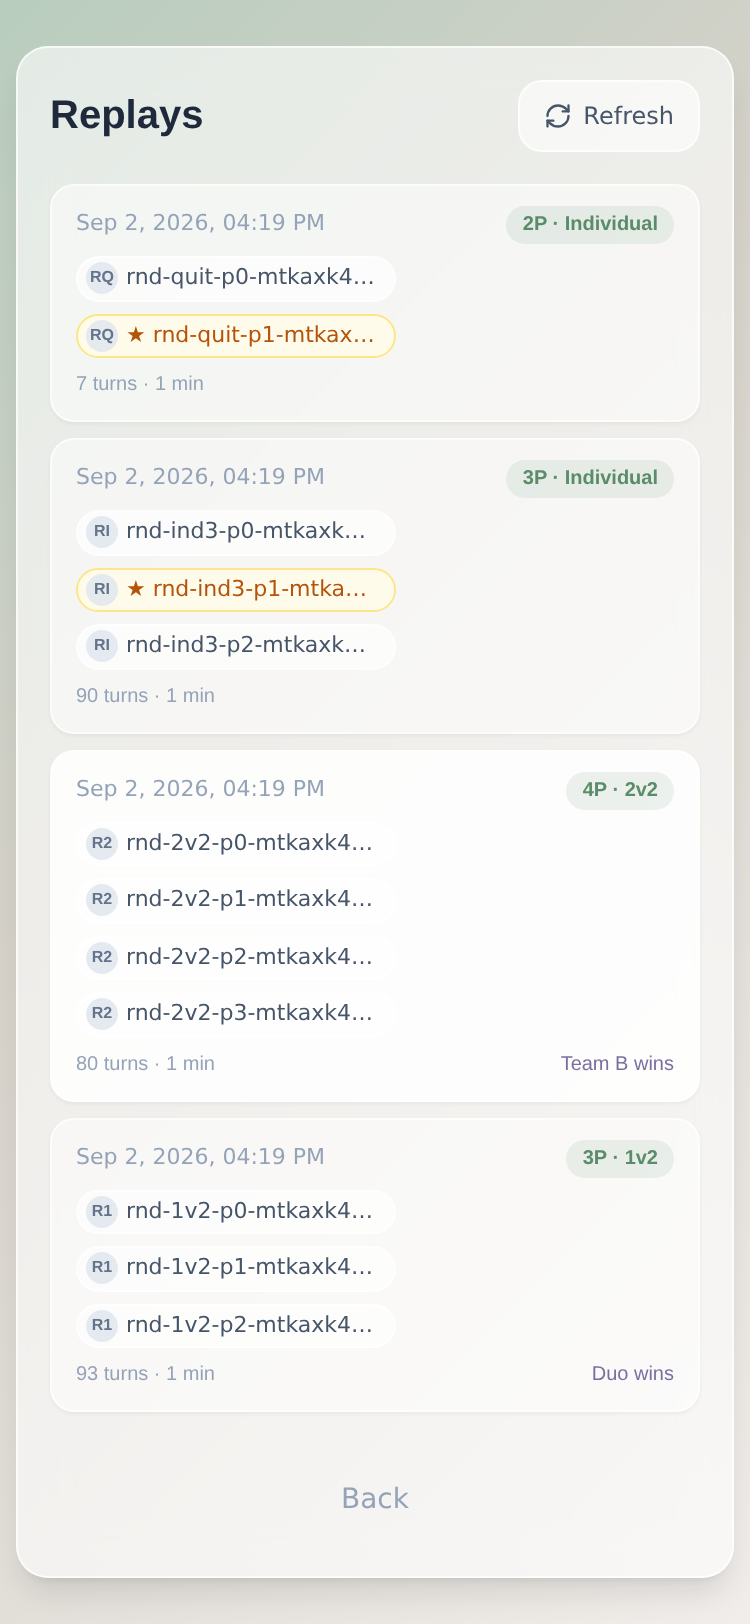
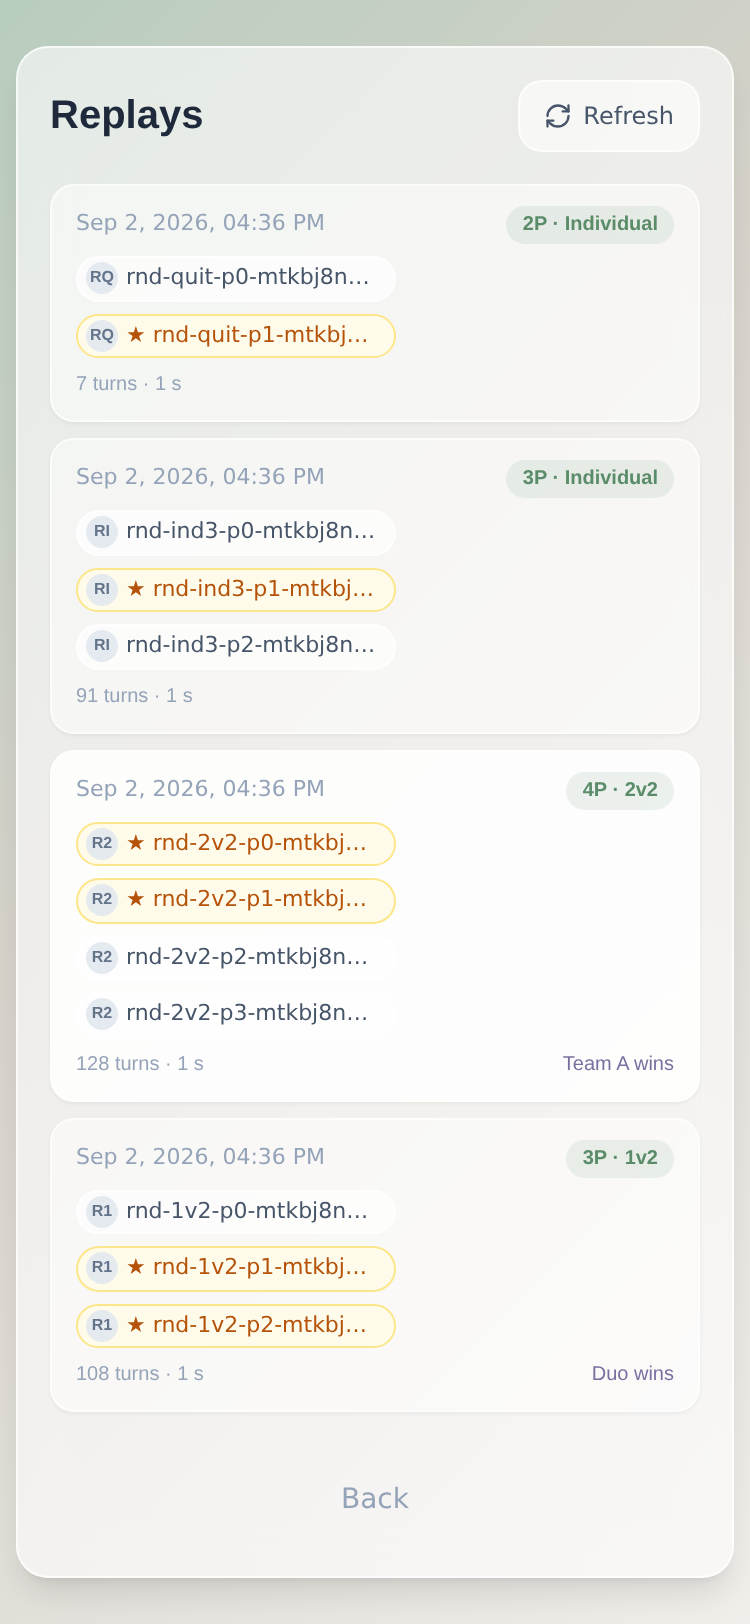
replay: team winners in index, resigned-seat rating in stored result, duration text, vite cleanup
Claude-Session: https://claude.ai/code/session_01KxVch65mcLL5sdVjKVQqqZ

diff --git a/server/test/replayRecorder.test.js b/server/test/replayRecorder.test.js
@@ -326,6 +326,36 @@ async function run() {
     assertEqual(json.result.rating, [0, 5, 5]);
   });
 
+  await test('INDIVIDUAL: a resigned seat is stored with a rating delta of 0', () => {
+    // index.js applies ratings with excludeResigned when an INDIVIDUAL game ends on a
+    // resignation/timeout, so seat 2's account is never credited even though the raw
+    // ranking hands it +3. The stored replay must say the same.
+    const state = syntheticState([
+      player('a', 15, 11), player('b', 4, 3), player('c', 9, 7),
+    ], { resignedPlayers: [2] });
+    const room = makeSyntheticRoom(state, [5, 1, 3]);
+    recorder.begin(room);
+    const json = recorder.finish(room);
+    assertEqual(json.result.rating, [5, 1, 0], 'the resigned seat earns nothing');
+    assertEqual(json.result.resigned, [2]);
+    assertEqual(json.result.winners, [0], 'resigned seats are still excluded from the winners');
+  });
+
+  await test('team modes keep the rating the server credited for resigned seats', () => {
+    const state = syntheticState([
+      player('a', 12, 8, 0), player('b', 3, 2, 1), player('c', 9, 6, 0), player('d', 5, 4, 1),
+    ], {
+      gameMode: 'TEAM',
+      teamLayout: 'OPPOSITE',
+      resignedPlayers: [1],
+      gameResult: { reason: 'FORFEIT', winningTeamIds: [0] },
+    });
+    const room = makeSyntheticRoom(state, [5, 0, 5, 0]);
+    recorder.begin(room);
+    const json = recorder.finish(room);
+    assertEqual(json.result.rating, [5, 0, 5, 0], 'team ratings are per side, not per seat');
+  });
+
   await test('a missing ratingChanges falls back to zeroes instead of throwing', () => {
     const state = syntheticState([player('a', 1, 1), player('b', 2, 1)]);
     const room = makeSyntheticRoom(state, null);

diff --git a/server/test/replayStore.test.js b/server/test/replayStore.test.js
@@ -82,9 +82,11 @@ async function run() {
       t: json.t,
       e: json.e,
       mode: 'INDIVIDUAL',
+      layout: null,
       n: 2,
       players: ['alice', 'bob'],
       ai: [false, false],
+      teams: [null, null],
       winners: [0],
       winningTeamIds: null,
       turns: json.actions.length,
@@ -104,6 +106,19 @@ async function run() {
     const list = await store.listGames({ limit: 200 });
     assertEqual(list.total, 100);
     assertEqual(list.games[0].id, 'game-1000000000104-r104', 'newest first');
+  });
+
+  await test('a team entry carries per-seat team ids and the layout', async () => {
+    useNoGithub();
+    store.reset();
+    const team = fixtures.clone(fixtures.teamGame);
+    store.add(team);
+    const list = await store.listGames({});
+    const entry = list.games[0];
+    assertEqual(entry.teams, [0, 1, 0, 1], 'seat → teamId, so the browser can star a winning side');
+    assertEqual(entry.layout, 'OPPOSITE');
+    assertEqual(entry.winners, null, 'team modes have no individual winners');
+    assertEqual(entry.winningTeamIds, team.result.winningTeamIds);
   });
 
   await test('paginates with limit and offset', async () => {

diff --git a/src/replay/ReplayBrowser.tsx b/src/replay/ReplayBrowser.tsx
@@ -138,12 +138,17 @@ function teamOutcome(game: ReplayIndexEntry): string | null {
 /** Seats to star: individual winners, or every member of a winning team. */
 function winnerSeats(game: ReplayIndexEntry): Set<number> {
   const seats = new Set<number>();
-  if (game.winningTeamIds?.length) {
-    // The index entry has no per-seat team ids; 1v2 seats solo at 0, 2v2 alternates or pairs.
-    // Fall back to the explicit winners list when the server provides one.
-    if (game.winners?.length) for (const seat of game.winners) seats.add(seat);
+  if (game.winners?.length) {
+    for (const seat of game.winners) seats.add(seat);
     return seats;
   }
-  for (const seat of game.winners ?? []) seats.add(seat);
+  // Team modes leave `winners` null, so map the winning side onto seats
+  // through the per-seat team ids the index entry carries.
+  if (game.winningTeamIds?.length && game.teams) {
+    const winningTeams = new Set<number>(game.winningTeamIds);
+    game.teams.forEach((team, seat) => {
+      if (team != null && winningTeams.has(team)) seats.add(seat);
+    });
+  }
   return seats;
 }

diff --git a/server/replayRecorder.js b/server/replayRecorder.js
@@ -189,6 +189,9 @@ function buildResult(room) {
 
   // An INDIVIDUAL game that ran out of active players ended by forfeit.
   const forfeited = resigned.length >= state.numPlayers - 1 && resigned.length > 0;
+  // index.js credits accounts with `excludeResigned` when an INDIVIDUAL game ends
+  // on a resignation/timeout, so a seat that resigned never earns a delta. Store
+  // what the server actually credited instead of the raw ranking.
   return {
     scores,
     cards,
@@ -196,7 +199,7 @@ function buildResult(room) {
     winners: individualWinners(state),
     winningTeamIds: null,
     reason: forfeited ? 'FORFEIT' : 'SCORE',
-    rating: ratingChanges,
+    rating: ratingChanges.map((delta, seat) => (resigned.includes(seat) ? 0 : delta)),
   };
 }
 

diff --git a/server/replayStore.js b/server/replayStore.js
@@ -103,9 +103,13 @@ function indexEntryFor(json) {
     t: json.t ?? null,
     e: json.e ?? null,
     mode: json.mode,
+    layout: json.layout ?? null,
     n: json.n ?? (json.players || []).length,
     players: (json.players || []).map(player => player.u),
     ai: (json.players || []).map(player => player.ai === true),
+    // Per-seat team ids (null in INDIVIDUAL) so the browser can star a winning
+    // side without loading the whole replay — team modes leave `winners` null.
+    teams: (json.players || []).map(player => (player.team ?? null)),
     winners: json.result?.winners ?? null,
     winningTeamIds: json.result?.winningTeamIds ?? null,
     turns: Array.isArray(json.actions) ? json.actions.length : 0,

diff --git a/src/replay/replayText.ts b/src/replay/replayText.ts
@@ -101,7 +101,10 @@ export function formatReplayDate(ms: number): string {
 
 export function formatDuration(startMs: number, endMs: number): string | null {
   if (!startMs || !endMs || endMs <= startMs) return null;
-  const totalMinutes = Math.round((endMs - startMs) / 60000);
+  // Short games (bot runs, quick resignations) are seconds, not "1 min".
+  const totalSeconds = Math.round((endMs - startMs) / 1000);
+  if (totalSeconds < 60) return `${Math.max(1, totalSeconds)} s`;
+  const totalMinutes = Math.round(totalSeconds / 60);
   if (totalMinutes < 60) return `${Math.max(1, totalMinutes)} min`;
   const hours = Math.floor(totalMinutes / 60);
   return `${hours} h ${totalMinutes % 60} min`;

diff --git a/src/types.ts b/src/types.ts
@@ -150,9 +150,11 @@ export interface ReplayIndexEntry {
   t: number;          // game start (ms)
   e: number;          // game end (ms)
   mode: GameMode;
+  layout?: TeamLayout | null;      // TEAM only, null otherwise
   n: number;
   players: string[];  // usernames, seat order
   ai?: boolean[];
+  teams?: (number | null)[];       // per-seat teamId, null in INDIVIDUAL
   winners: number[] | null;
   winningTeamIds: TeamId[] | null;
   turns: number;

diff --git a/docs/REPLAY_FORMAT.md b/docs/REPLAY_FORMAT.md
@@ -49,10 +49,14 @@ Anything derivable is NOT stored (gold taken on reserve, auto-claimed nobles, de
 
 `replays/index.json`:
 ```jsonc
-{ "v": 1, "games": [ { "id": "...", "t": 1725280000000, "e": 1725281800000, "mode": "INDIVIDUAL", "n": 3,
-  "players": ["alice", "bob", "carol"], "ai": [false,false,true], "winners": [0], "winningTeamIds": null, "turns": 57 } ] }
+{ "v": 1, "games": [ { "id": "...", "t": 1725280000000, "e": 1725281800000, "mode": "INDIVIDUAL",
+  "layout": null,                                  // null | "ADJACENT" | "OPPOSITE" (TEAM only)
+  "n": 3, "players": ["alice", "bob", "carol"], "ai": [false,false,true],
+  "teams": [null, null, null],                     // per-seat teamId (0 | 1), null in INDIVIDUAL
+  "winners": [0], "winningTeamIds": null, "turns": 57 } ] }
 ```
-Newest first. Written with GitHub Contents API (read sha → PUT; on 409/422 conflict re-read and retry up to 3×).
+Newest first. `winners` is null in team modes, so a client stars the winning side by matching
+`teams[seat]` against `winningTeamIds`. Written with GitHub Contents API (read sha → PUT; on 409/422 conflict re-read and retry up to 3×).
 
 ## 2. Recording semantics (server)
 
